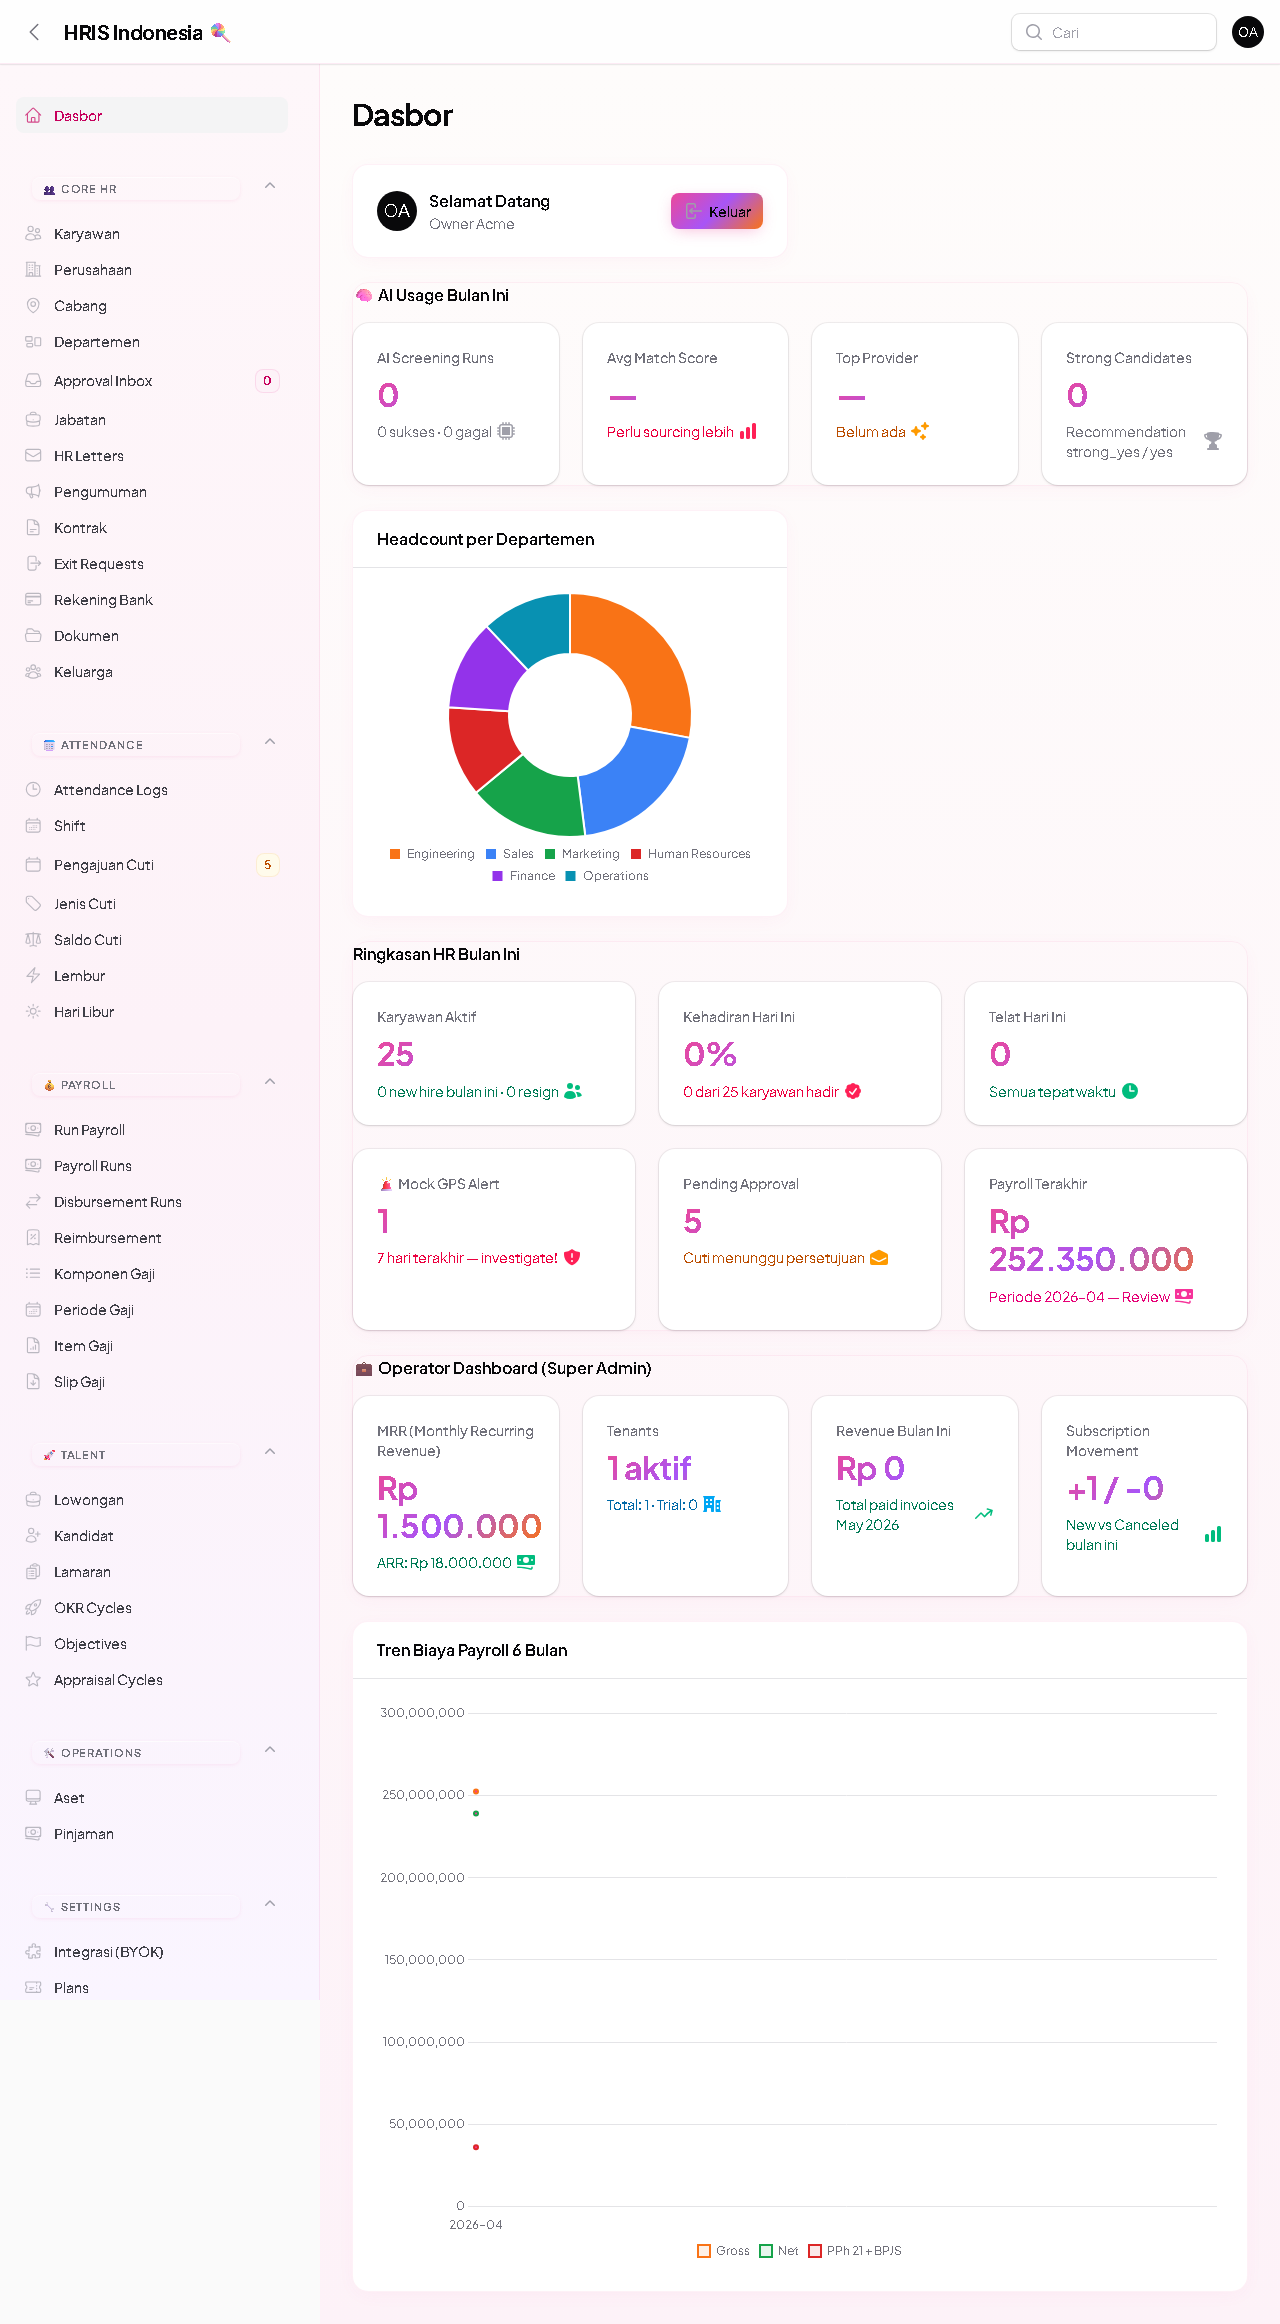
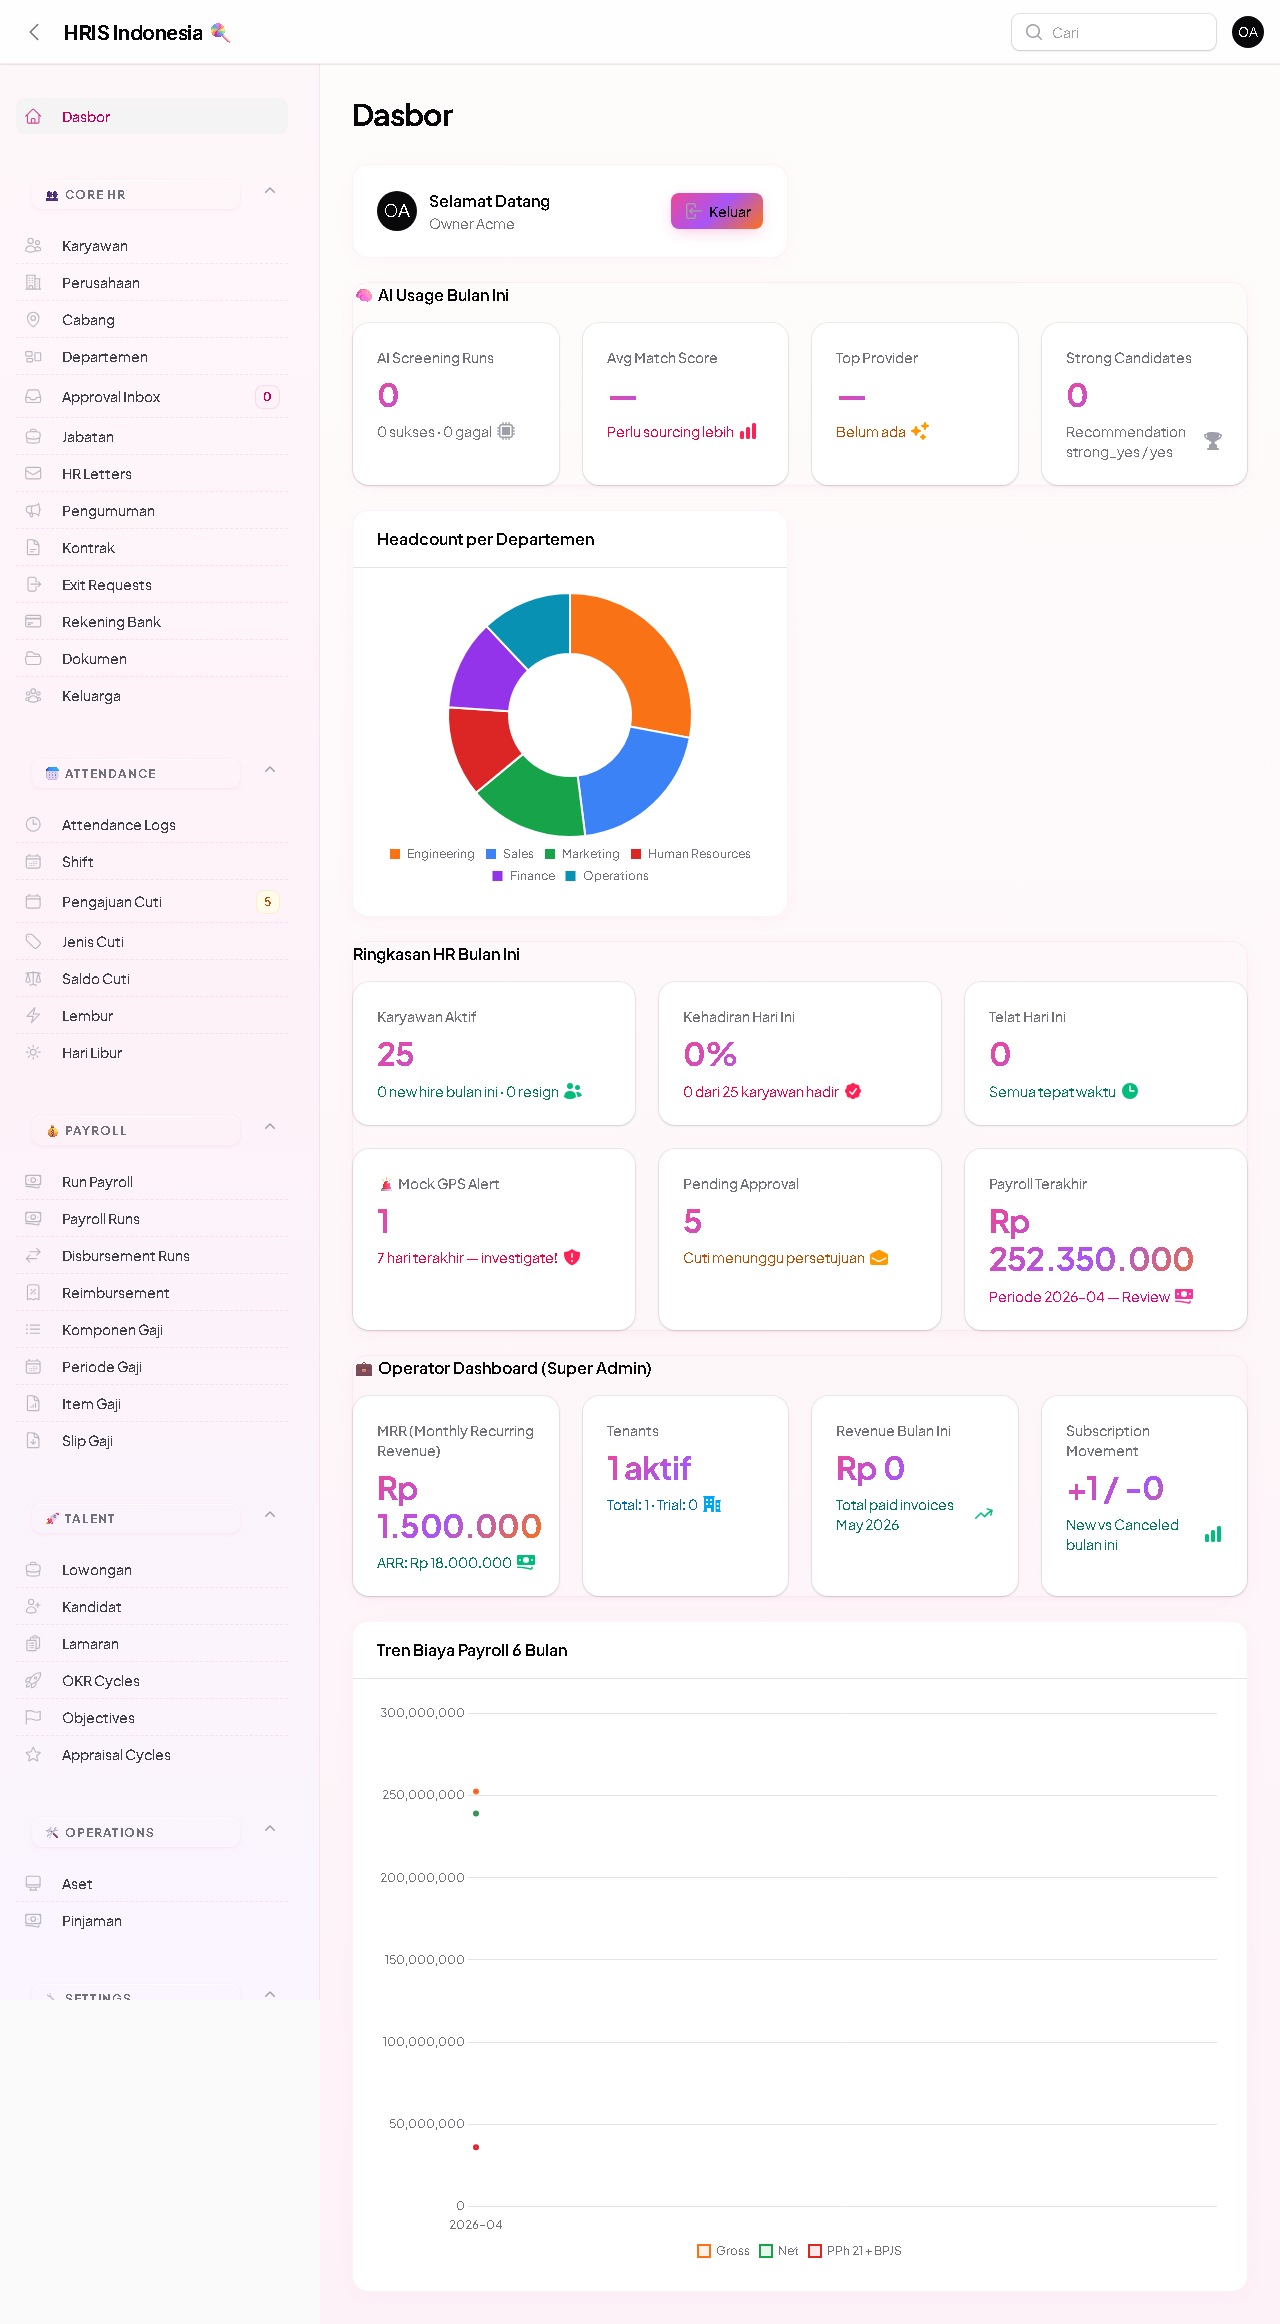
fix: spasi menu lebih rapat + font lebih besar + pembeda visual antar group
User feedback: 'jarak antara menu terlalu besar sekarang, dan tulisannya terlalu kecil dan tidak ada pembeda antara menu yang lain'

3 perubahan utama:

## 1. Tulisan Submenu LEBIH BESAR
- font-size 0.95rem (sebelumnya 0.875rem) — nyaman dibaca
- font-weight 600 (sebelumnya 500) — lebih solid
- color #374151 (gray-700, lebih kontras dari default)
- Icon submenu: 1.25rem (sebelumnya 1.15rem)
- Active item: font-weight 800

## 2. Jarak Menu LEBIH RAPAT
- Sub-item padding: 8px 10px 8px 14px (cukup nyaman tap target)
- margin: 0 (NO gap antara items)
- gap: 0 + display flex column (eliminate Filament default gap)
- border-radius: 0 (full-width, lebih menyatu)
- Top-level Dasbor: margin 4px 6px (sedikit napas)

## 3. PEMBEDA VISUAL Antar Menu

### Separator dashed antar items
border-bottom: 1px dashed rgba(236, 72, 153, 0.12)
(item terakhir per group no border)

### Left border accent SAAT HOVER — match group color
👥 Core HR    → border-left pink (#ec4899) + bg #fce7f3
📅 Attendance → border-left blue (#3b82f6) + bg #dbeafe
💰 Payroll    → border-left mint (#10b981) + bg #d1fae5
🚀 Talent     → border-left yellow (#f59e0b) + bg #fef3c7
🛠 Operations → border-left purple (#a855f7) + bg #e9d5ff
🔧 Settings   → border-left orange (#f97316) + bg #ffedd5

### Active item: solid pink left border
border-left: 3px solid #be185d
(visually clear sedang di halaman mana)

Bonus: group label sedikit lebih besar (0.78rem dari 0.68rem)
[…]

diff --git a/public/css/filament-candy.css b/public/css/filament-candy.css
@@ -28,15 +28,15 @@ body, html, .fi-body, .fi-sidebar {
     background-clip: text;
 }
 
-/* ─── Group Header — COMPACT PILL BADGE ─────────────────────── */
+/* ─── Group Header — PILL BADGE ───────────────────────────── */
 .fi-sidebar-group-label {
     text-transform: uppercase;
     letter-spacing: 0.08em;
-    font-size: 0.68rem !important;
+    font-size: 0.78rem !important;
     font-weight: 800 !important;
-    padding: 5px 10px !important;
-    margin: 8px 8px 2px !important;
-    border-radius: 8px !important;
+    padding: 7px 12px !important;
+    margin: 10px 8px 4px !important;
+    border-radius: 9px !important;
     box-shadow: 0 1px 4px -1px rgba(236, 72, 153, 0.15), inset 0 1px 0 rgba(255, 255, 255, 0.5) !important;
     position: relative;
     overflow: hidden;
@@ -44,7 +44,6 @@ body, html, .fi-body, .fi-sidebar {
     font-family: 'Plus Jakarta Sans', 'Segoe UI Emoji', 'Apple Color Emoji', 'Noto Color Emoji', system-ui, sans-serif !important;
 }
 
-/* Decorative shine line on top */
 .fi-sidebar-group-label::before {
     content: '';
     position: absolute;
@@ -54,47 +53,36 @@ body, html, .fi-body, .fi-sidebar {
 }
 
 /* ─── Per-group color theme (nth-child rotating candy palette) ───── */
-/* 1st group: Pink (Core HR) */
 .fi-sidebar-nav-groups > div:nth-child(1) .fi-sidebar-group-label,
 .fi-sidebar-nav > div:nth-child(1) .fi-sidebar-group-label {
     background: linear-gradient(135deg, #fce7f3 0%, #fbcfe8 100%) !important;
     color: #be185d !important;
     border: 1px solid rgba(236, 72, 153, 0.25);
 }
-
-/* 2nd group: Blue/Sky (Attendance) */
 .fi-sidebar-nav-groups > div:nth-child(2) .fi-sidebar-group-label,
 .fi-sidebar-nav > div:nth-child(2) .fi-sidebar-group-label {
     background: linear-gradient(135deg, #dbeafe 0%, #bfdbfe 100%) !important;
     color: #1d4ed8 !important;
     border: 1px solid rgba(59, 130, 246, 0.25);
 }
-
-/* 3rd group: Mint/Emerald (Payroll) */
 .fi-sidebar-nav-groups > div:nth-child(3) .fi-sidebar-group-label,
 .fi-sidebar-nav > div:nth-child(3) .fi-sidebar-group-label {
     background: linear-gradient(135deg, #d1fae5 0%, #a7f3d0 100%) !important;
     color: #047857 !important;
     border: 1px solid rgba(16, 185, 129, 0.25);
 }
-
-/* 4th group: Yellow/Cream (Talent) */
 .fi-sidebar-nav-groups > div:nth-child(4) .fi-sidebar-group-label,
 .fi-sidebar-nav > div:nth-child(4) .fi-sidebar-group-label {
     background: linear-gradient(135deg, #fef3c7 0%, #fde68a 100%) !important;
     color: #b45309 !important;
     border: 1px solid rgba(245, 158, 11, 0.25);
 }
-
-/* 5th group: Purple (Operations) */
 .fi-sidebar-nav-groups > div:nth-child(5) .fi-sidebar-group-label,
 .fi-sidebar-nav > div:nth-child(5) .fi-sidebar-group-label {
     background: linear-gradient(135deg, #e9d5ff 0%, #d8b4fe 100%) !important;
     color: #6d28d9 !important;
     border: 1px solid rgba(168, 85, 247, 0.25);
 }
-
-/* 6th group: Peach (Settings) */
 .fi-sidebar-nav-groups > div:nth-child(6) .fi-sidebar-group-label,
 .fi-sidebar-nav > div:nth-child(6) .fi-sidebar-group-label {
     background: linear-gradient(135deg, #ffedd5 0%, #fed7aa 100%) !important;
@@ -102,38 +90,67 @@ body, html, .fi-body, .fi-sidebar {
     border: 1px solid rgba(249, 115, 22, 0.25);
 }
 
-/* ─── Group collapsible chevron — match group color ──────────── */
+/* ─── Group collapsible chevron ──────────────────────────── */
 .fi-sidebar-group-collapse-button {
     background: rgba(255,255,255,0.6) !important;
     border-radius: 8px !important;
 }
 
-/* ─── Submenu items — COMPACT ───────────────────────────────── */
+/* ─── Submenu items — RAPAT, BACA NYAMAN, PEMBEDA JELAS ──────── */
 .fi-sidebar-group-items {
     padding-left: 0 !important;
-    margin-top: 1px !important;
+    margin-top: 2px !important;
     gap: 0 !important;
+    display: flex;
+    flex-direction: column;
 }
 
 .fi-sidebar-group-items > li {
     margin: 0 !important;
+    padding: 0 !important;
+    border-bottom: 1px dashed rgba(236, 72, 153, 0.12);
+}
+
+/* Last item no border */
+.fi-sidebar-group-items > li:last-child {
+    border-bottom: none;
 }
 
 .fi-sidebar-group-items .fi-sidebar-item-button {
-    padding: 5px 10px 5px 1rem !important;
-    border-radius: 7px !important;
-    margin: 0 6px !important;
-    font-weight: 500 !important;
-    font-size: 0.875rem !important;
+    padding: 8px 10px 8px 14px !important;
+    border-radius: 0 !important;
+    margin: 0 !important;
+    font-weight: 600 !important;
+    font-size: 0.95rem !important;
     min-height: unset !important;
     line-height: 1.3 !important;
+    color: #374151 !important;
+    position: relative;
+    border-left: 3px solid transparent !important;
 }
 
-/* Top-level items (Dasbor) */
+/* Icon submenu sedikit lebih besar untuk readability */
+.fi-sidebar-group-items .fi-sidebar-item-icon {
+    width: 1.25rem !important;
+    height: 1.25rem !important;
+    margin-right: 0.5rem !important;
+}
+
+/* ─── Per-group LEFT BORDER accent (pembeda visual antar group) ─── */
+.fi-sidebar-nav-groups > div:nth-child(1) .fi-sidebar-item-button:hover { border-left-color: #ec4899 !important; background: rgba(252, 231, 243, 0.4) !important; }
+.fi-sidebar-nav-groups > div:nth-child(2) .fi-sidebar-item-button:hover { border-left-color: #3b82f6 !important; background: rgba(219, 234, 254, 0.4) !important; }
+.fi-sidebar-nav-groups > div:nth-child(3) .fi-sidebar-item-button:hover { border-left-color: #10b981 !important; background: rgba(209, 250, 229, 0.4) !important; }
+.fi-sidebar-nav-groups > div:nth-child(4) .fi-sidebar-item-button:hover { border-left-color: #f59e0b !important; background: rgba(254, 243, 199, 0.4) !important; }
+.fi-sidebar-nav-groups > div:nth-child(5) .fi-sidebar-item-button:hover { border-left-color: #a855f7 !important; background: rgba(233, 213, 255, 0.4) !important; }
+.fi-sidebar-nav-groups > div:nth-child(6) .fi-sidebar-item-button:hover { border-left-color: #f97316 !important; background: rgba(255, 237, 213, 0.4) !important; }
+
+/* Top-level items (Dasbor) — pertahankan rounded */
 .fi-sidebar-nav > ul > li > .fi-sidebar-item-button {
-    padding: 6px 10px !important;
-    margin: 2px 6px !important;
+    padding: 8px 12px !important;
+    margin: 4px 6px !important;
     border-radius: 8px !important;
+    font-size: 0.95rem !important;
+    font-weight: 600 !important;
 }
 
 /* Sub-item icons visible */
@@ -171,9 +188,10 @@ body, html, .fi-body, .fi-sidebar {
 .fi-sidebar-item-active > .fi-sidebar-item-button {
     background: linear-gradient(135deg, #fce7f3 0%, #fbcfe8 60%, #f9a8d4 100%) !important;
     color: #be185d !important;
-    font-weight: 700 !important;
+    font-weight: 800 !important;
     box-shadow: 0 4px 12px -3px rgba(236, 72, 153, 0.4) !important;
-    transform: translateX(2px);
+    border-left-color: #be185d !important;
+    transform: none !important;
 }
 
 .fi-sidebar-item-active .fi-sidebar-item-icon {

diff --git a/resources/css/filament-candy.css b/resources/css/filament-candy.css
@@ -28,15 +28,15 @@ body, html, .fi-body, .fi-sidebar {
     background-clip: text;
 }
 
-/* ─── Group Header — COMPACT PILL BADGE ─────────────────────── */
+/* ─── Group Header — PILL BADGE ───────────────────────────── */
 .fi-sidebar-group-label {
     text-transform: uppercase;
     letter-spacing: 0.08em;
-    font-size: 0.68rem !important;
+    font-size: 0.78rem !important;
     font-weight: 800 !important;
-    padding: 5px 10px !important;
-    margin: 8px 8px 2px !important;
-    border-radius: 8px !important;
+    padding: 7px 12px !important;
+    margin: 10px 8px 4px !important;
+    border-radius: 9px !important;
     box-shadow: 0 1px 4px -1px rgba(236, 72, 153, 0.15), inset 0 1px 0 rgba(255, 255, 255, 0.5) !important;
     position: relative;
     overflow: hidden;
@@ -44,7 +44,6 @@ body, html, .fi-body, .fi-sidebar {
     font-family: 'Plus Jakarta Sans', 'Segoe UI Emoji', 'Apple Color Emoji', 'Noto Color Emoji', system-ui, sans-serif !important;
 }
 
-/* Decorative shine line on top */
 .fi-sidebar-group-label::before {
     content: '';
     position: absolute;
@@ -54,47 +53,36 @@ body, html, .fi-body, .fi-sidebar {
 }
 
 /* ─── Per-group color theme (nth-child rotating candy palette) ───── */
-/* 1st group: Pink (Core HR) */
 .fi-sidebar-nav-groups > div:nth-child(1) .fi-sidebar-group-label,
 .fi-sidebar-nav > div:nth-child(1) .fi-sidebar-group-label {
     background: linear-gradient(135deg, #fce7f3 0%, #fbcfe8 100%) !important;
     color: #be185d !important;
     border: 1px solid rgba(236, 72, 153, 0.25);
 }
-
-/* 2nd group: Blue/Sky (Attendance) */
 .fi-sidebar-nav-groups > div:nth-child(2) .fi-sidebar-group-label,
 .fi-sidebar-nav > div:nth-child(2) .fi-sidebar-group-label {
     background: linear-gradient(135deg, #dbeafe 0%, #bfdbfe 100%) !important;
     color: #1d4ed8 !important;
     border: 1px solid rgba(59, 130, 246, 0.25);
 }
-
-/* 3rd group: Mint/Emerald (Payroll) */
 .fi-sidebar-nav-groups > div:nth-child(3) .fi-sidebar-group-label,
 .fi-sidebar-nav > div:nth-child(3) .fi-sidebar-group-label {
     background: linear-gradient(135deg, #d1fae5 0%, #a7f3d0 100%) !important;
     color: #047857 !important;
     border: 1px solid rgba(16, 185, 129, 0.25);
 }
-
-/* 4th group: Yellow/Cream (Talent) */
 .fi-sidebar-nav-groups > div:nth-child(4) .fi-sidebar-group-label,
 .fi-sidebar-nav > div:nth-child(4) .fi-sidebar-group-label {
     background: linear-gradient(135deg, #fef3c7 0%, #fde68a 100%) !important;
     color: #b45309 !important;
     border: 1px solid rgba(245, 158, 11, 0.25);
 }
-
-/* 5th group: Purple (Operations) */
 .fi-sidebar-nav-groups > div:nth-child(5) .fi-sidebar-group-label,
 .fi-sidebar-nav > div:nth-child(5) .fi-sidebar-group-label {
     background: linear-gradient(135deg, #e9d5ff 0%, #d8b4fe 100%) !important;
     color: #6d28d9 !important;
     border: 1px solid rgba(168, 85, 247, 0.25);
 }
-
-/* 6th group: Peach (Settings) */
 .fi-sidebar-nav-groups > div:nth-child(6) .fi-sidebar-group-label,
 .fi-sidebar-nav > div:nth-child(6) .fi-sidebar-group-label {
     background: linear-gradient(135deg, #ffedd5 0%, #fed7aa 100%) !important;
@@ -102,38 +90,67 @@ body, html, .fi-body, .fi-sidebar {
     border: 1px solid rgba(249, 115, 22, 0.25);
 }
 
-/* ─── Group collapsible chevron — match group color ──────────── */
+/* ─── Group collapsible chevron ──────────────────────────── */
 .fi-sidebar-group-collapse-button {
     background: rgba(255,255,255,0.6) !important;
     border-radius: 8px !important;
 }
 
-/* ─── Submenu items — COMPACT ───────────────────────────────── */
+/* ─── Submenu items — RAPAT, BACA NYAMAN, PEMBEDA JELAS ──────── */
 .fi-sidebar-group-items {
     padding-left: 0 !important;
-    margin-top: 1px !important;
+    margin-top: 2px !important;
     gap: 0 !important;
+    display: flex;
+    flex-direction: column;
 }
 
 .fi-sidebar-group-items > li {
     margin: 0 !important;
+    padding: 0 !important;
+    border-bottom: 1px dashed rgba(236, 72, 153, 0.12);
+}
+
+/* Last item no border */
+.fi-sidebar-group-items > li:last-child {
+    border-bottom: none;
 }
 
 .fi-sidebar-group-items .fi-sidebar-item-button {
-    padding: 5px 10px 5px 1rem !important;
-    border-radius: 7px !important;
-    margin: 0 6px !important;
-    font-weight: 500 !important;
-    font-size: 0.875rem !important;
+    padding: 8px 10px 8px 14px !important;
+    border-radius: 0 !important;
+    margin: 0 !important;
+    font-weight: 600 !important;
+    font-size: 0.95rem !important;
     min-height: unset !important;
     line-height: 1.3 !important;
+    color: #374151 !important;
+    position: relative;
+    border-left: 3px solid transparent !important;
 }
 
-/* Top-level items (Dasbor) */
+/* Icon submenu sedikit lebih besar untuk readability */
+.fi-sidebar-group-items .fi-sidebar-item-icon {
+    width: 1.25rem !important;
+    height: 1.25rem !important;
+    margin-right: 0.5rem !important;
+}
+
+/* ─── Per-group LEFT BORDER accent (pembeda visual antar group) ─── */
+.fi-sidebar-nav-groups > div:nth-child(1) .fi-sidebar-item-button:hover { border-left-color: #ec4899 !important; background: rgba(252, 231, 243, 0.4) !important; }
+.fi-sidebar-nav-groups > div:nth-child(2) .fi-sidebar-item-button:hover { border-left-color: #3b82f6 !important; background: rgba(219, 234, 254, 0.4) !important; }
+.fi-sidebar-nav-groups > div:nth-child(3) .fi-sidebar-item-button:hover { border-left-color: #10b981 !important; background: rgba(209, 250, 229, 0.4) !important; }
+.fi-sidebar-nav-groups > div:nth-child(4) .fi-sidebar-item-button:hover { border-left-color: #f59e0b !important; background: rgba(254, 243, 199, 0.4) !important; }
+.fi-sidebar-nav-groups > div:nth-child(5) .fi-sidebar-item-button:hover { border-left-color: #a855f7 !important; background: rgba(233, 213, 255, 0.4) !important; }
+.fi-sidebar-nav-groups > div:nth-child(6) .fi-sidebar-item-button:hover { border-left-color: #f97316 !important; background: rgba(255, 237, 213, 0.4) !important; }
+
+/* Top-level items (Dasbor) — pertahankan rounded */
 .fi-sidebar-nav > ul > li > .fi-sidebar-item-button {
-    padding: 6px 10px !important;
-    margin: 2px 6px !important;
+    padding: 8px 12px !important;
+    margin: 4px 6px !important;
     border-radius: 8px !important;
+    font-size: 0.95rem !important;
+    font-weight: 600 !important;
 }
 
 /* Sub-item icons visible */
@@ -171,9 +188,10 @@ body, html, .fi-body, .fi-sidebar {
 .fi-sidebar-item-active > .fi-sidebar-item-button {
     background: linear-gradient(135deg, #fce7f3 0%, #fbcfe8 60%, #f9a8d4 100%) !important;
     color: #be185d !important;
-    font-weight: 700 !important;
+    font-weight: 800 !important;
     box-shadow: 0 4px 12px -3px rgba(236, 72, 153, 0.4) !important;
-    transform: translateX(2px);
+    border-left-color: #be185d !important;
+    transform: none !important;
 }
 
 .fi-sidebar-item-active .fi-sidebar-item-icon {
